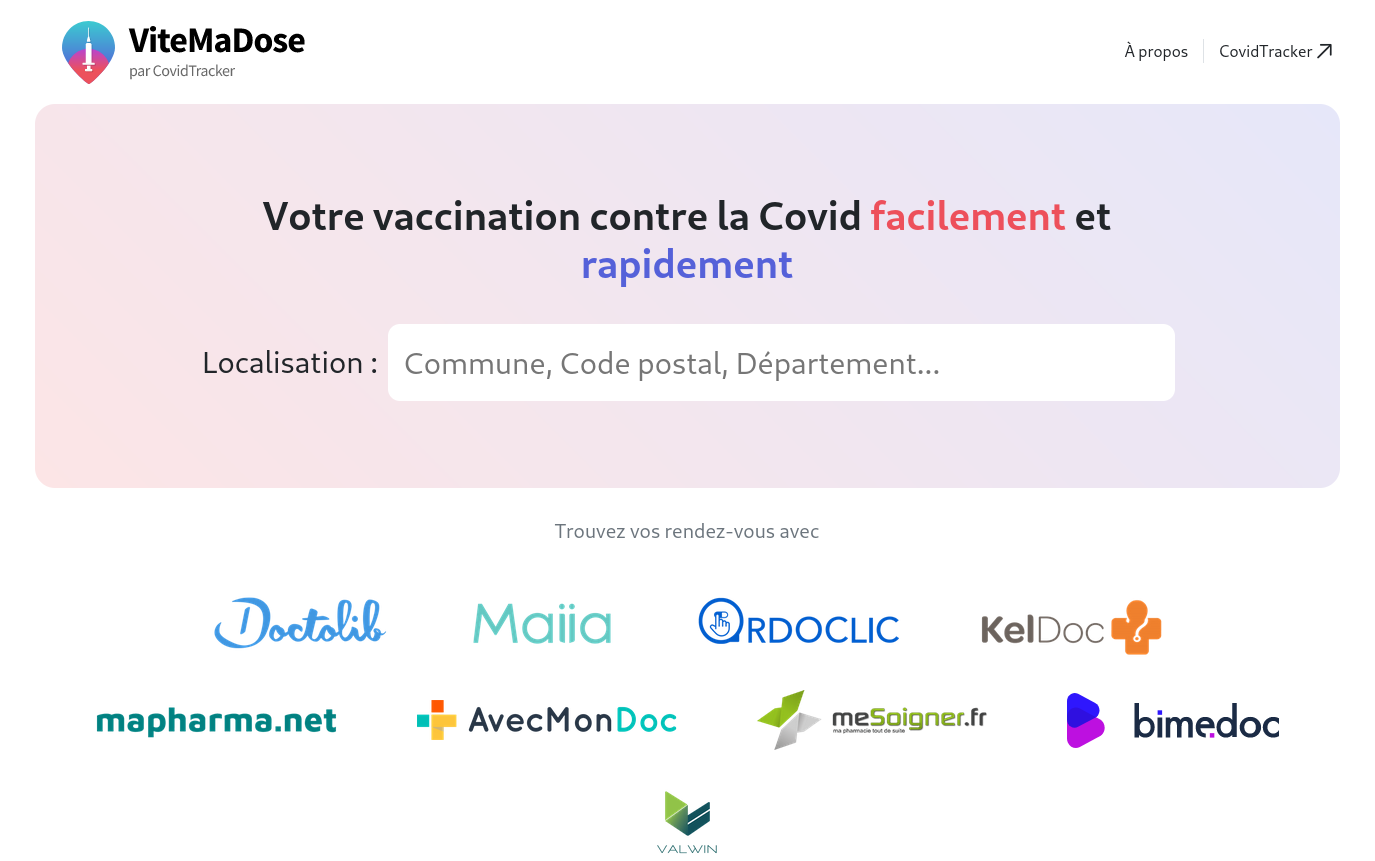
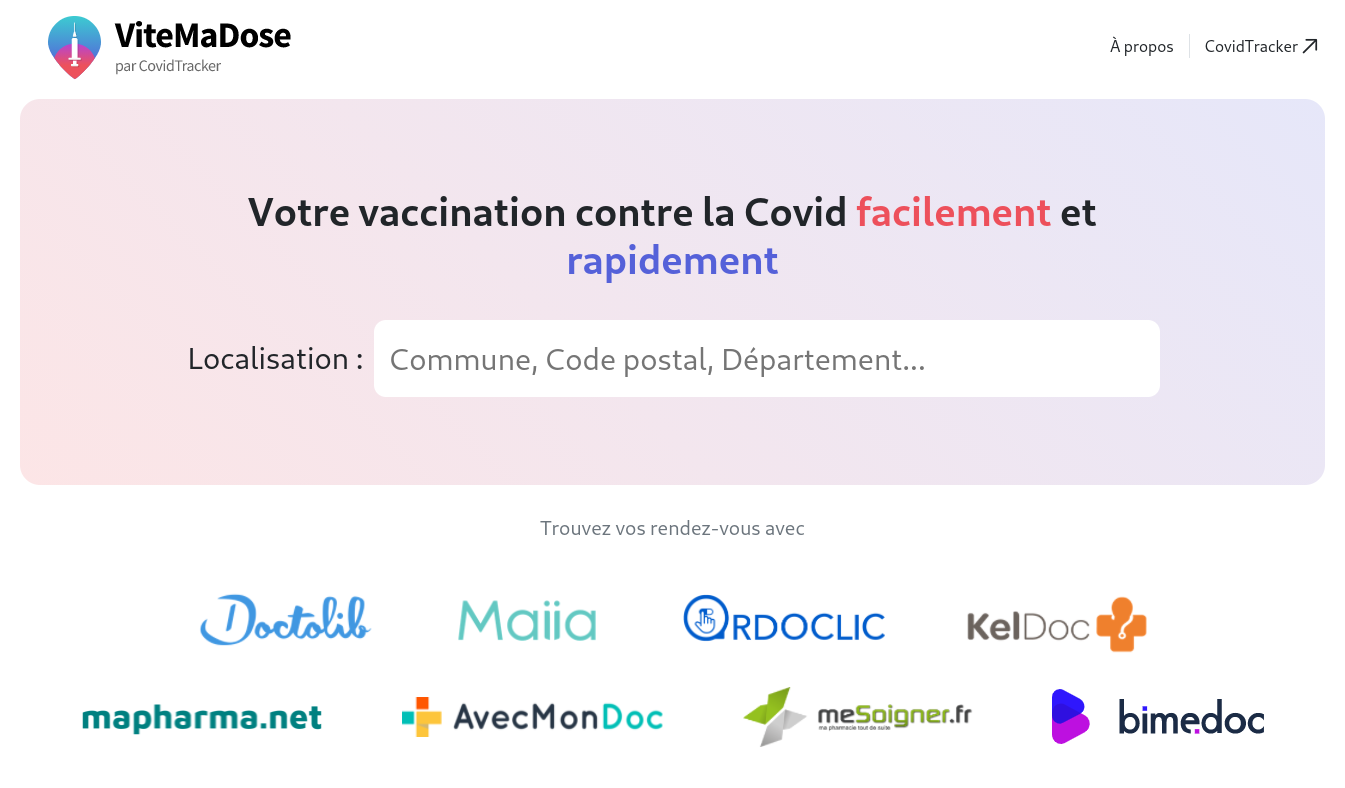
Revert "Merge branch 'dev' into 'main', symbolizing MEP 20210914_01"
This reverts commit 642fffee3ae0a630aa920f8af248fb0fb62fe910, reversing
changes made to fdb77be921f8d6b654715a31a5ccf61794dce65d.

diff --git a/src/state/State.ts b/src/state/State.ts
@@ -47,7 +47,7 @@ export namespace SearchRequest {
 
 export type CodeTriCentre = 'date' | 'distance';
 
-export type TypePlateforme = "Doctolib"|"Maiia"|"Ordoclic"|"Keldoc"|"Pandalab"|"Mapharma"|"AvecMonDoc"|"Clikodoc"|"mesoigner"|"Bimedoc"|"Valwin";
+export type TypePlateforme = "Doctolib"|"Maiia"|"Ordoclic"|"Keldoc"|"Pandalab"|"Mapharma"|"AvecMonDoc"|"Clikodoc"|"mesoigner"|"Bimedoc";
 export type Plateforme = {
     // Should be the same than PLATEFORMES' key
     code: TypePlateforme;
@@ -70,8 +70,7 @@ export const PLATEFORMES: Record<TypePlateforme, Plateforme> = {
     'AvecMonDoc': { code: 'AvecMonDoc', logo: 'logo_avecmondoc.png', nom: 'AvecMonDoc', promoted: true,  website: 'https://www.avecmondoc.com/', styleCode: '_avecmondoc'},
     'Clikodoc': { code: 'Clikodoc', logo: 'logo_clikodoc.png', nom: 'Clikodoc', promoted: false,  website: 'https://www.clikodoc.com/', styleCode: '_clikodoc'},
     'mesoigner': { code: 'mesoigner', logo: 'logo_mesoigner.png', nom: 'MeSoigner', promoted: true, website: 'https://www.mesoigner.fr/', styleCode: '_mesoigner'},
-    'Bimedoc': { code: 'Bimedoc', logo: 'logo_bimedoc.svg', nom: 'Bimedoc', promoted: true, website: 'https://www.bimedoc.com/', styleCode: '_bimedoc' },
-    'Valwin': { code: 'Valwin', logo: 'logo_valwin.png', nom: 'Valwin', promoted: true, website: 'https://www.valwin.fr/', styleCode: '_valwin' },
+    'Bimedoc': {code: 'Bimedoc', logo: 'logo_bimedoc.svg', nom: 'Bimedoc', promoted: true, website: 'https://www.bimedoc.com/', styleCode: '_bimedoc'}
     // Beware: if you add a new plateform, don't forget to update 'hardcoded' (indexable) content
     // in index.html page, referencing the list of supported plateforms
 };

diff --git a/index.html b/index.html
@@ -96,7 +96,7 @@
                 <h2 class="h5">Quel est l’intérêt de Vite Ma Dose de Vaccin&nbsp;?</h2>
                 <p>
                     Vite Ma Dose est une plateforme qui permet de trouver un rendez-vous de vaccination rapidement dans son département. Sont actuellement recensés les créneaux de vaccination des plateformes de santé
-                    Doctolib, Keldoc, Maiia, Ordoclic, MaPharma, AvecMonDoc, Clikodoc, MeSoigner, Bimedoc et Valwin. La réservation d’un créneau d’injection de vaccin dans un centre de vaccination s’effectue via les pages de ces plateformes de santé.
+                    Doctolib, Keldoc, Maiia, Ordoclic, MaPharma, AvecMonDoc, Clikodoc, MeSoigner et Bimedoc. La réservation d’un créneau d’injection de vaccin dans un centre de vaccination s’effectue via les pages de ces plateformes de santé.
                 </p>
 
                 <hr />
@@ -140,7 +140,7 @@
                 <h2 class="h5">Comment réserver un rendez-vous de vaccination&nbsp;?</h2>
                 <p>
                     On peut se faire vacciner contre le coronavirus en réservant un rendez-vous grâce à Vite Ma Dose.
-                    On peut aussi prendre rendez-vous directement via les plateformes Doctolib, Keldoc, Maiia, Ordoclic, MaPharma, AvecMonDoc, Clikodoc, MeSoigner, Bimedoc ou Valwin, ainsi que chez son médecin généraliste ou en pharmacie.
+                    On peut aussi prendre rendez-vous directement via les plateformes Doctolib, Keldoc, Maiia, Ordoclic, MaPharma, AvecMonDoc, Clikodoc, MeSoigner ou Bimedoc, ainsi que chez son médecin généraliste ou en pharmacie.
                 </p>
 
                 <hr />

diff --git a/src/views/vmd-home.view.scss b/src/views/vmd-home.view.scss
@@ -153,8 +153,5 @@
         &._bimedoc {
             max-height: 5.5rem;
         }
-        &._valwin {
-            max-height: 10rem;
-        }
     }
 }
